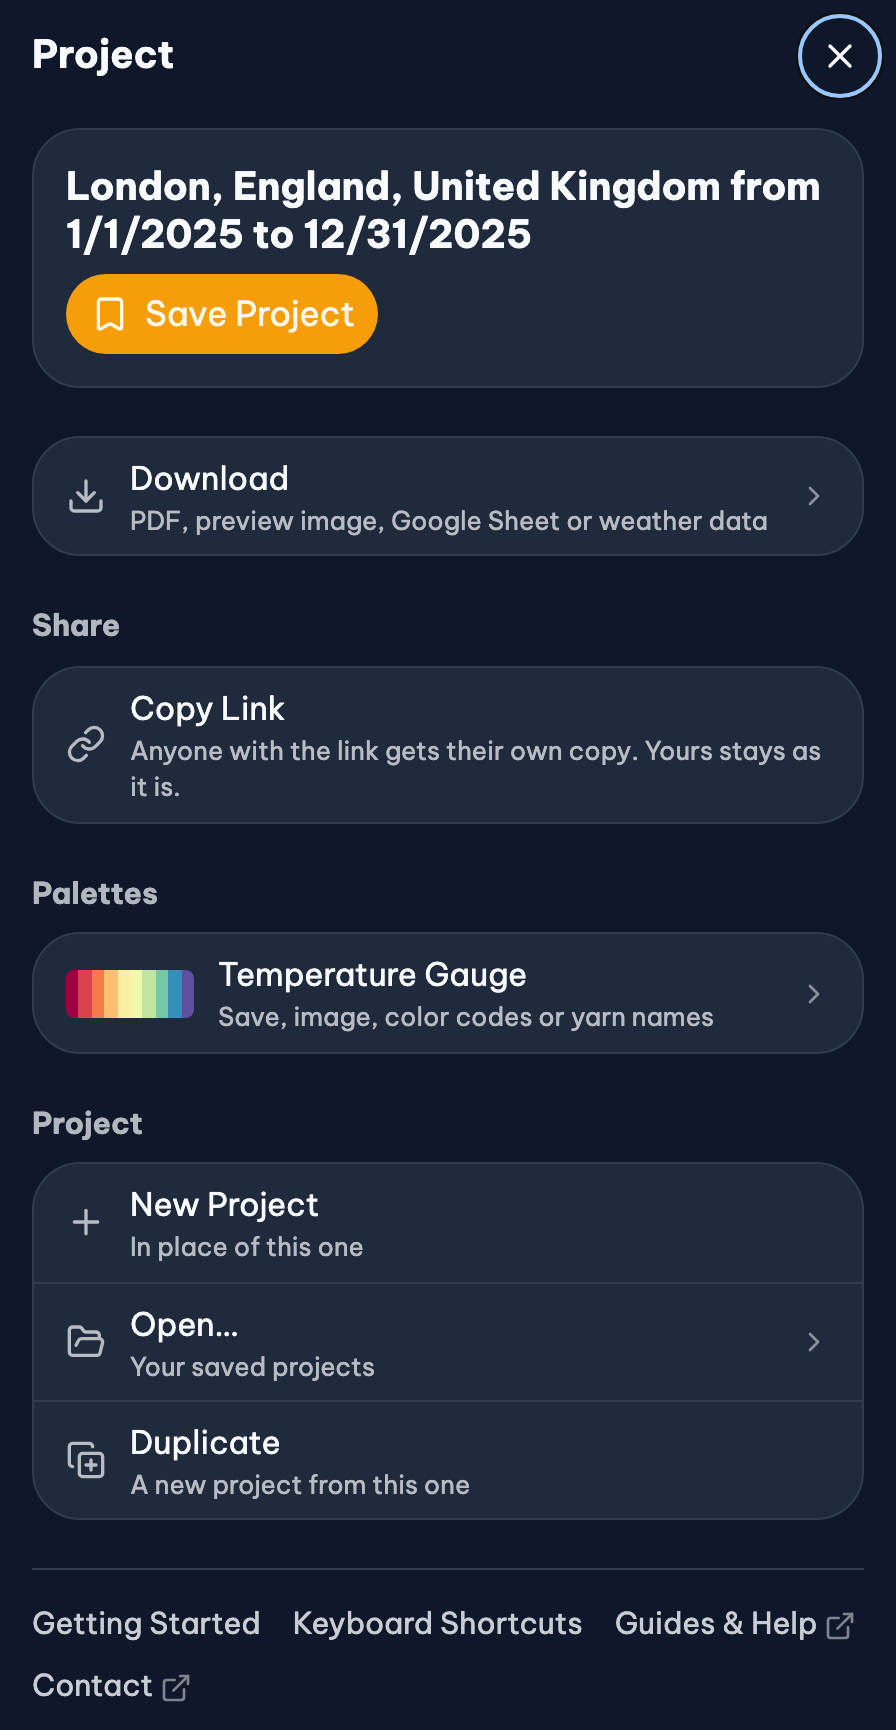
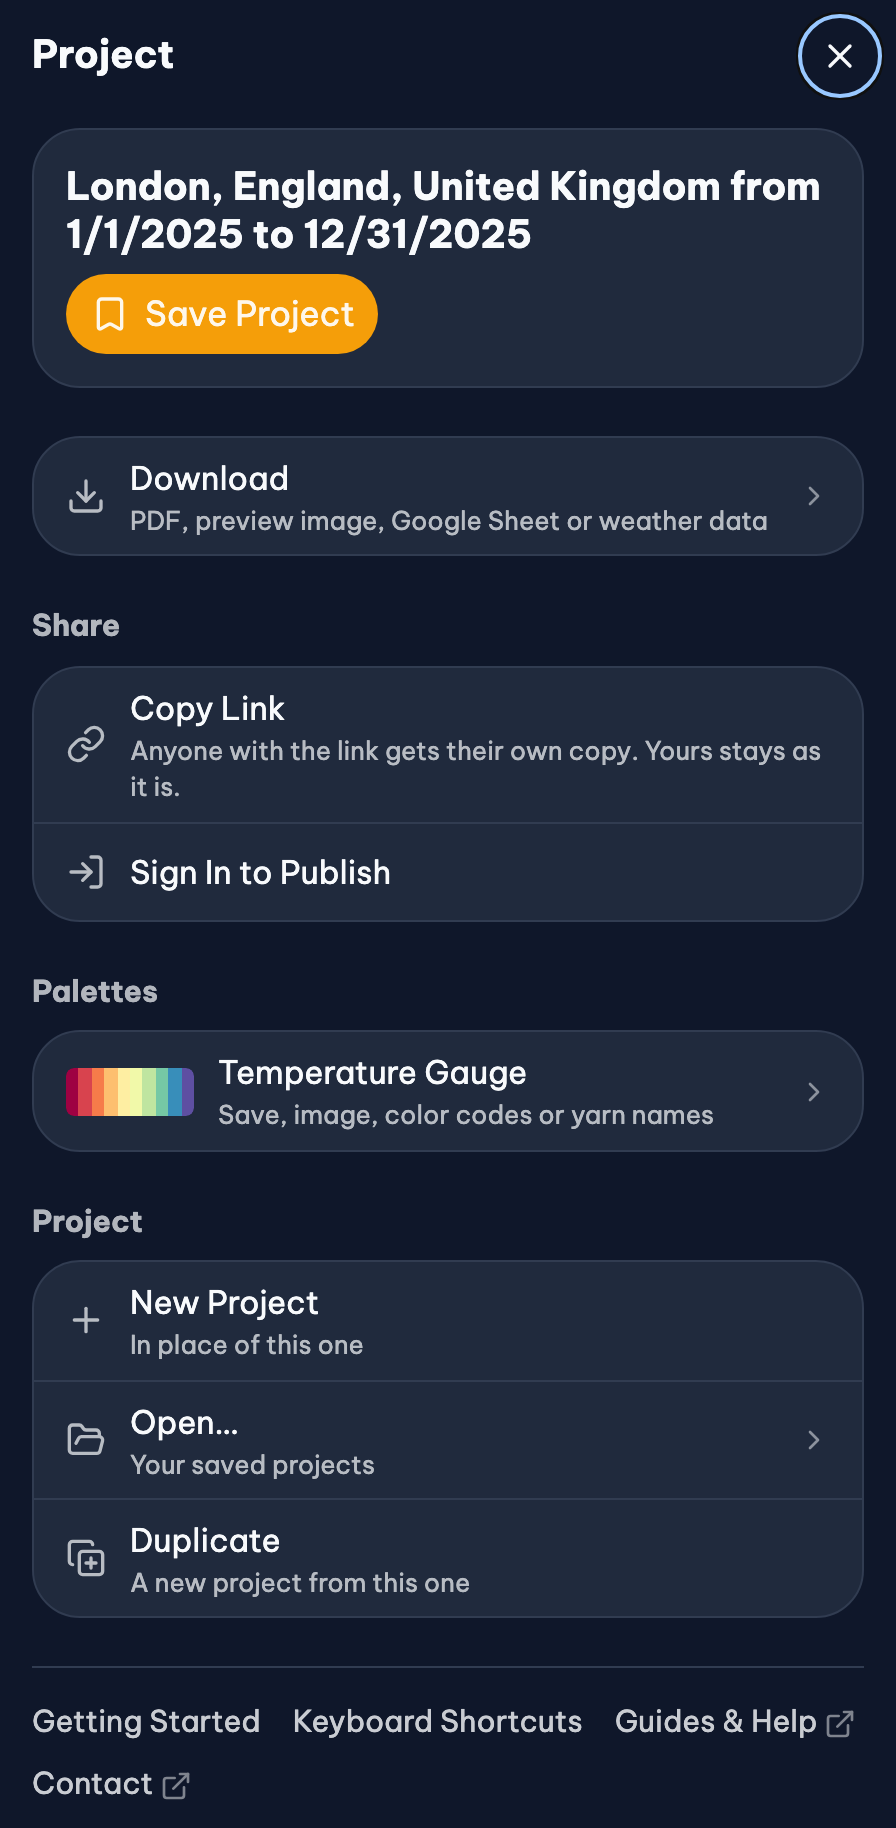
Guides & Help: shots from the accounts build; docs shots not precached
Adds the Rows preview and a My Library card's menu, and retakes the
Project menu as launched (Sign In to Publish). The service worker no
longer precaches static/images/docs: they load as read.

diff --git a/scripts/docs-screenshots.ts b/scripts/docs-screenshots.ts
@@ -15,7 +15,7 @@
 
 // The screenshots in Guides & Help, light and dark. Run it again after the UI
 // changes to refresh every shot:
-//   pnpm build && pnpm preview          # in another terminal
+//   PUBLIC_ACCOUNTS_ENABLED=true pnpm build && pnpm preview   # in another terminal (as launched)
 //   node scripts/docs-screenshots.ts [--base https://localhost:4173] [--only <name>]
 // Each shot is static/images/docs/<name>-light.png and -dark.png (DocsShot's
 // `src` is <name>), and its size goes into src/lib/docs/docs-shots.json, which
@@ -45,6 +45,8 @@ type Shot = {
   open: (page: Page) => Promise<Locator>;
   /** For a panel as tall as the window: end the shot below its content */
   trim?: boolean;
+  /** A taller window, so bars and toasts at the bottom stay below the shot */
+  height?: number;
 };
 
 /** The planner with the project's weather loaded, at one of its sections */
@@ -89,6 +91,30 @@ const menu = (page: Page) => page.getByRole('menu').last();
 const dialog = (page: Page) => page.getByRole('dialog').last();
 
 const SHOTS: Shot[] = [
+  {
+    name: 'preview/rows',
+    open: async (page) => {
+      const section = await planner(page, 'preview');
+      return section.locator('#preview-svg-image');
+    },
+    height: 2200,
+  },
+  {
+    name: 'library-and-account/card-menu',
+    open: async (page) => {
+      await planner(page, 'weather-data');
+      await page.keyboard.press('.');
+      await page.getByTestId('menu-save').click();
+      await page.getByTestId('autosave-status').waitFor();
+      await page.goto(new URL('/my-projects', base).href);
+      await page
+        .getByRole('button', { name: /^More for/ })
+        .first()
+        .click();
+      await settle(page);
+      return menu(page);
+    },
+  },
   {
     name: 'location-and-dates/location',
     open: async (page) => {
@@ -163,7 +189,7 @@ async function main() {
       const context = await browser.newContext({
         baseURL: base,
         ignoreHTTPSErrors: true,
-        viewport: { width: 1280, height: 1400 },
+        viewport: { width: 1280, height: shot.height ?? 1400 },
         colorScheme: theme,
         reducedMotion: 'reduce',
         // Sharp on high-density screens; the sizes kept are CSS pixels

diff --git a/src/routes/documentation/(docs)/library-and-account/+page.svelte b/src/routes/documentation/(docs)/library-and-account/+page.svelte
@@ -110,7 +110,7 @@ show only in builds with accounts. -->
   </p>
   <DocsShot
     src="library-and-account/project-menu"
-    alt="The Project menu: the project's name with Save Project; Download; Share with Copy Link; Palettes with the Temperature Gauge; Project with New Project, Open… and Duplicate; and links to Getting Started, Keyboard Shortcuts, Guides & Help and Contact."
+    alt="The Project menu: the project's name with Save Project; Download; Share with Copy Link and Sign In to Publish; Palettes with the Temperature Gauge; Project with New Project, Open… and Duplicate; and links to Getting Started, Keyboard Shortcuts, Guides & Help and Contact."
     caption="The Project menu, before the project is saved."
   />
 </section>
@@ -165,6 +165,11 @@ show only in builds with accounts. -->
       >.
     </p>
   {/if}
+  <DocsShot
+    src="library-and-account/card-menu"
+    alt="A project card's ⋮ menu in My Library: Edit in Project Planner, Duplicate Project, Sign In to Publish under Gallery Page, and Move to Trash."
+    caption="A project card's ⋮ menu, signed out."
+  />
 </section>
 
 <section class="flex flex-col gap-3">

diff --git a/src/routes/documentation/(docs)/preview/+page.svelte b/src/routes/documentation/(docs)/preview/+page.svelte
@@ -19,6 +19,7 @@ page's (OLD_ANCHORS, HELP_TOPICS). -->
 
 <script lang="ts">
   import Seasons from '#lib/components/docs/help/Seasons.svelte';
+  import DocsShot from '#lib/components/docs/DocsShot.svelte';
   import RelatedGuides from '#lib/components/docs/RelatedGuides.svelte';
 
   const patterns = [
@@ -117,6 +118,11 @@ page's (OLD_ANCHORS, HELP_TOPICS). -->
     Press <span class="font-bold">Information</span> above a preview for more about
     its pattern and what's in this one.
   </p>
+  <DocsShot
+    src="preview/rows"
+    alt="A Rows preview of a year of London's weather: one thin stripe per day from top to bottom, purples and blues in winter, warming through yellows and oranges to deep reds in summer, and back to blues and purples in December."
+    caption="The Rows pattern, a year of London."
+  />
 </section>
 
 <section class="flex flex-col gap-3">

diff --git a/src/service-worker/index.js b/src/service-worker/index.js
@@ -23,7 +23,9 @@ const CACHE = `cache-${version}`;
 // Manifest paths are relative to the base path; the fetch handler compares pathnames
 const ASSETS = [
   ...immutable, // the app itself
-  ...assets, // everything in `static`
+  // everything in `static`, but Guides & Help's screenshots: only a reader
+  // needs them, one theme of each, and they load (and are cached) as read
+  ...assets.filter(({ path }) => !path.includes('images/docs/')),
 ].map(({ path }) => new URL(path, self.registration.scope).pathname);
 
 self.addEventListener('install', (event) => {

diff --git a/CLAUDE.md b/CLAUDE.md
@@ -47,7 +47,7 @@ Single unit test file: `pnpm vitest run src/lib/utils/color-utils.test.ts`. Sing
 - **`src/routes/api/`** — server routes. `location/*` and `weather/v1/meteostat/*` proxy GeoNames/Meteostat to hide keys; `project/+server.ts` used to take anonymous gallery submissions and now answers 410 `SIGN_IN_TO_PUBLISH` (publishing needs an account); Turnstile (`src/lib/server/turnstile.ts`, fails closed; widget `src/lib/components/Turnstile.svelte`) still guards signed-out sign-in codes; `yarn-colorways/{v1,v3}/*` is a public, versioned yarn colorway API (documented at `/api/yarn-colorways`).
 - **`src/lib/data/yarns/`** — static yarn/colorway data.
 - Routes map roughly 1:1 to top-level nav (`weather`, `yarn`, `yarn-colorway-finder`, `gallery/[id]`, `globe`, `blog/*` dated folders, `my-projects`, `account`, docs pages). `preferences` is reached from the top bar's account button (`account/AccountButton.svelte`: a Popover signed in, a Menu signed out, a plain link in builds without accounts), not the sidebar. The sidebar (`AppNavigation.svelte`: Create · My Library, then Explore · Gallery …) has Create as a Project/Palette menu; My Library (`my-projects` / `my-palettes`) and Gallery (`gallery` / `gallery/palettes`) are single links going back to the side open last (`librarySection` / `gallerySection`). `src/routes/.dev-tools/` is dev-only (redirected away in production by `hooks.server.ts`).
-- **Guides & Help** (`/documentation`, the sidebar's "Guides & Help"): `src/lib/docs/docs-index.ts` lists every guide (`/documentation/guides/<slug>`) and reference page (`/documentation/<slug>`) in order, with each one's title, summary and everyday-word `keywords`; the `(docs)` layout takes each page's title, description, breadcrumb and Previous/Next from it, so a page is only its content. Old single-page anchors (`/documentation#weather-sources`) are forwarded by the index via `OLD_ANCHORS`; sections keep those ids. Search is `docs-search.ts`: keywords first, then Pagefind full text (`pnpm build` runs `pagefind` over `.svelte-kit/cloudflare`, indexing only `data-pagefind-body`; `/pagefind/*` is in `routes.exclude`). On this page (`on-this-page.svelte.ts`) collects a guide or reference page's h2/h3; the index has every page beside it instead. Short help (`docs/help-topics.ts`) is shared by the docs pages and `HelpIcon`, which opens it in a dialog, or over an open dialog with Back (`dialog.showHelp`, content kept mounted). `/faq` 301s to the index's Common Questions (`hooks.server.ts`). Reference pages check each fact against the code and reuse its constants and help components; their sections' ids are the old anchors, on the headings, and they end with `RelatedGuides`. Guides not written yet are `DocsStub`s linking their index entry's `until` (a reference section). Screenshots are `DocsShot src="<page>/<shot>"`, made light and dark by `node scripts/docs-screenshots.ts --base <preview URL>` (against `pnpm preview`; writes `static/images/docs/` and the sizes in `docs/docs-shots.json`): re-run it after UI changes.
+- **Guides & Help** (`/documentation`, the sidebar's "Guides & Help"): `src/lib/docs/docs-index.ts` lists every guide (`/documentation/guides/<slug>`) and reference page (`/documentation/<slug>`) in order, with each one's title, summary and everyday-word `keywords`; the `(docs)` layout takes each page's title, description, breadcrumb and Previous/Next from it, so a page is only its content. Old single-page anchors (`/documentation#weather-sources`) are forwarded by the index via `OLD_ANCHORS`; sections keep those ids. Search is `docs-search.ts`: keywords first, then Pagefind full text (`pnpm build` runs `pagefind` over `.svelte-kit/cloudflare`, indexing only `data-pagefind-body`; `/pagefind/*` is in `routes.exclude`). On this page (`on-this-page.svelte.ts`) collects a guide or reference page's h2/h3; the index has every page beside it instead. Short help (`docs/help-topics.ts`) is shared by the docs pages and `HelpIcon`, which opens it in a dialog, or over an open dialog with Back (`dialog.showHelp`, content kept mounted). `/faq` 301s to the index's Common Questions (`hooks.server.ts`). Reference pages check each fact against the code and reuse its constants and help components; their sections' ids are the old anchors, on the headings, and they end with `RelatedGuides`. Guides not written yet are `DocsStub`s linking their index entry's `until` (a reference section). Screenshots are `DocsShot src="<page>/<shot>"`, made light and dark by `node scripts/docs-screenshots.ts --base <preview URL>` (against `PUBLIC_ACCOUNTS_ENABLED=true pnpm build && pnpm preview`, as launched; writes `static/images/docs/` and the sizes in `docs/docs-shots.json`): re-run it after UI changes.
 - The Cloudflare adapter's `routes.exclude` (in `vite.config.ts`) controls which paths are static vs. hit a Function — keep API routes out of it; the free plan caps it at ~100 entries, so prefer `/*` wildcards.
 
 ### Accounts and sync
